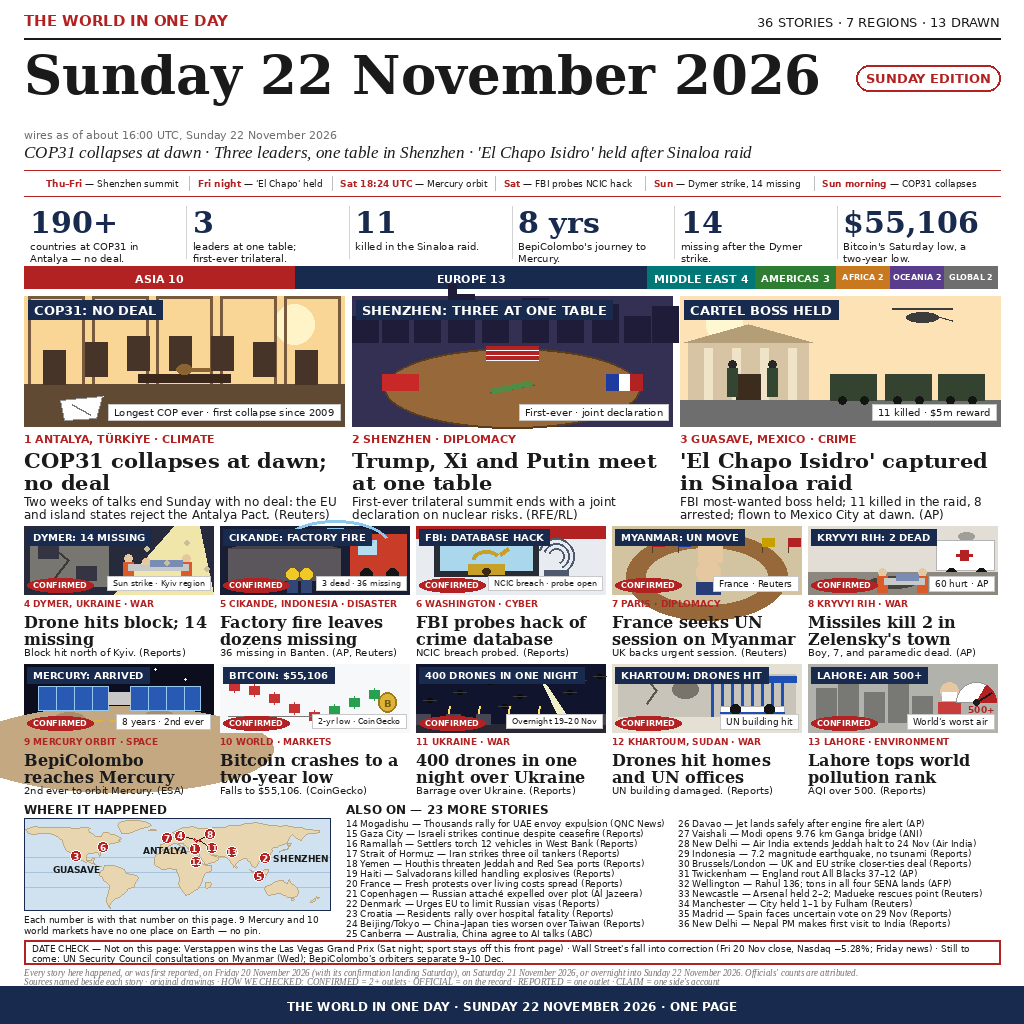
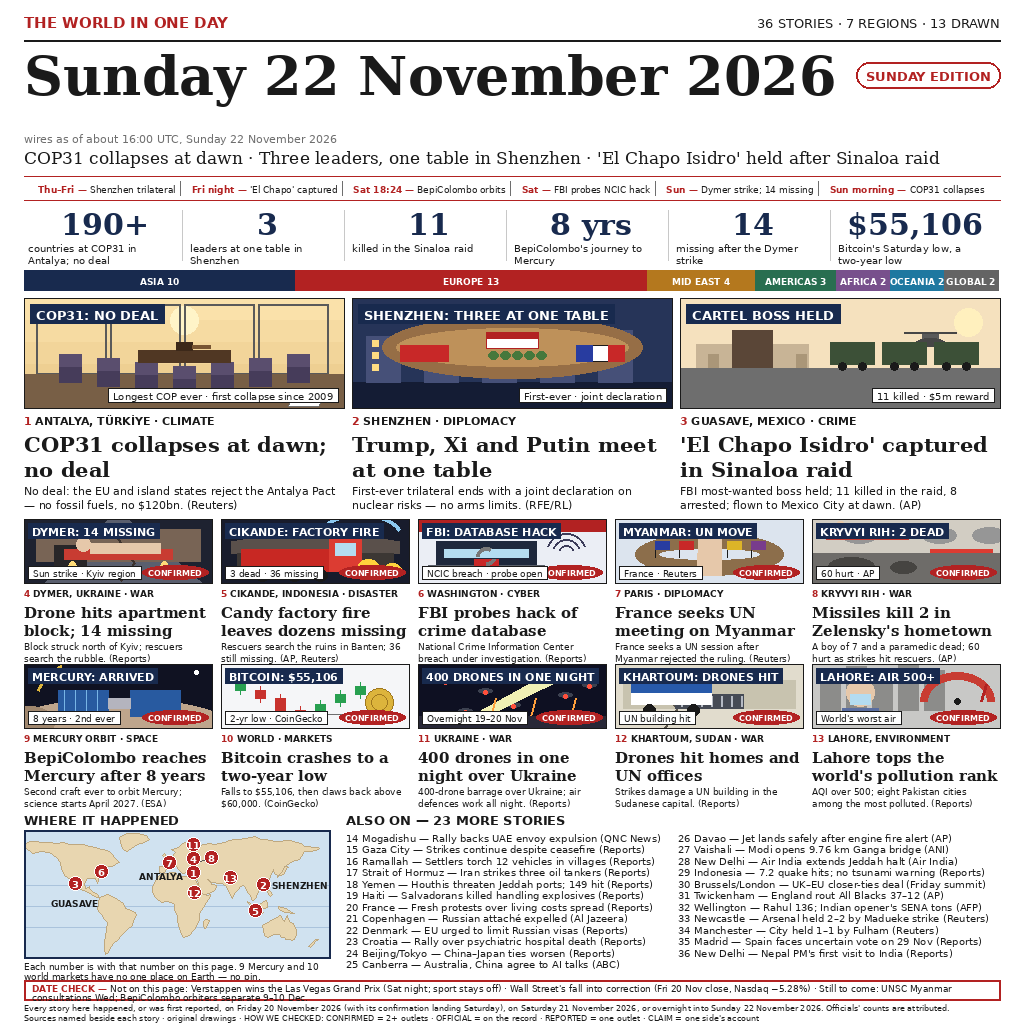
Sum 22 R8: real-geography world map, no footer band

diff --git a/main.py b/main.py
@@ -1,33 +1,33 @@
 #!/usr/bin/env python3
-"""news-image-20261122 (R7): ship the rendered broadsheet image.
+"""Copy the shipped entry.png to the output directory, verifying SHA-256.
 
-Copies the entry.png bundled in this repo to the output directory
-byte-for-byte, then verifies its SHA-256 against the hash baked in
-below. Exits non-zero if the copy does not match.
+Standard library only. Reads the output directory from the
+MAKEFUN_OUTPUT_DIR environment variable and falls back to /output when
+that variable is absent. Exits non-zero if the copied file's SHA-256
+does not match the hash baked in below.
 """
 import hashlib
 import os
 import shutil
 import sys
 
[2 lines of base64/hex data omitted]
 
 
 def main():
-    """Copy entry.png to the output dir and verify its SHA-256."""
     here = os.path.dirname(os.path.abspath(__file__))
     src = os.path.join(here, "entry.png")
     out_dir = os.environ.get("MAKEFUN_OUTPUT_DIR") or "/output"
     os.makedirs(out_dir, exist_ok=True)
     dst = os.path.join(out_dir, "entry.png")
     shutil.copyfile(src, dst)
-    with open(dst, "rb") as f:
-        digest = hashlib.sha256(f.read()).hexdigest()
+    with open(dst, "rb") as fh:
+        digest = hashlib.sha256(fh.read()).hexdigest()
     if digest != EXPECTED_SHA256:
-        print("hash mismatch: got %s, expected %s" % (digest, EXPECTED_SHA256),
+        print("SHA-256 mismatch: got %s, expected %s" % (digest, EXPECTED_SHA256),
               file=sys.stderr)
         return 1
-    print("wrote %s sha256=%s" % (dst, digest))
+    print("wrote %s sha256 %s" % (dst, digest))
     return 0
 
 

diff --git a/README.md b/README.md
@@ -3,21 +3,24 @@
 [![rank](https://make.fun/badge/news-image-20261122/sandytaztaz-hue/news-image-20261122/rank.svg)](https://make.fun/bounty/news-image-20261122/leaderboard?utm_source=github&utm_medium=readme&utm_campaign=news-image-20261122)
 [![reward](https://make.fun/badge/news-image-20261122/sandytaztaz-hue/news-image-20261122/reward.svg)](https://make.fun/bounty/news-image-20261122?utm_source=github&utm_medium=readme&utm_campaign=news-image-20261122)
 
-A 1024×1024 broadsheet front page summing up the world news of Sunday
-22 November 2026: 36 verified stories across 7 regions, 13 original
-flat-colour drawings, white paper with an ink masthead, a realistic world
-map with filled continents on a light-blue sea and numbered pins at true
-positions, a DATE CHECK box, and a navy footer band.
+A 1024×1024 broadsheet front page summing up Sunday 22 November 2026 in
+36 verified stories across 7 regions, with 13 original flat-colour
+drawings. White paper with an ink masthead, a realistic world map drawn
+from real latitude/longitude geography with filled continents on a
+light-blue sea and numbered pins at true positions, and a DATE CHECK box
+naming the stories readers may expect but that are not on this page.
+Mercury (story 9) and world markets (story 10) have no one place on
+Earth, so they have no pin — the caption under the map says so.
 
 ## What is on the page
 
-- Masthead: "Sunday 22 November 2026", SUNDAY EDITION, press-time line
-- Stat strip with the six Sunday numbers: 190+ / 3 / 11 / 8 yrs / 14 / $55,106
-- Regions: Asia 10 · Europe 13 · Middle East 4 · Americas 3 · Africa 2 · Oceania 2 · Global 2
-- The 3 heroes: COP31 collapses in Antalya; Trump, Xi and Putin meet in Shenzhen; 'El Chapo Isidro' captured in Guasave
-- The 10 minis with their cities: Dymer, Cikande, Washington, Paris, Kryvyi Rih, Mercury orbit, world markets, Ukraine, Khartoum, Lahore
-- The map: WHERE IT HAPPENED — 11 numbered pins at true positions (9 Mercury and 10 world markets have no one place on Earth, so no pin). Hero cities ANTALYA, SHENZHEN and GUASAVE are labelled beside their pins.
-- ALSO ON 14–36, DATE CHECK, HOW WE CHECKED
+- Masthead: "Sunday 22 November 2026", Sunday Edition, with the press-time line.
+- Stat strip with the six Sunday numbers: 190+ / 3 / 11 / 8 yrs / 14 / $55,106.
+- Regions: Asia 10 · Europe 13 · Middle East 4 · Americas 3 · Africa 2 · Oceania 2 · Global 2.
+- The 3 heroes: COP31 collapses at dawn (Antalya), Trump, Xi and Putin meet at one table (Shenzhen), 'El Chapo Isidro' captured in Sinaloa raid (Guasave).
+- The 10 minis with their cities: Dymer, Cikande, Washington, Paris, Kryvyi Rih, Mercury orbit, world markets, Ukraine, Khartoum, Lahore.
+- The map: filled pale-tan continents on a light-blue sea, 11 numbered pins computed from true lat/lon and verified on land.
+- ALSO ON 14–36, DATE CHECK, and HOW WE CHECKED.
 
 ## Run it
 
@@ -25,7 +28,7 @@ positions, a DATE CHECK box, and a navy footer band.
 MAKEFUN_OUTPUT_DIR=out python3 main.py
 ```
 
-This copies the shipped `entry.png` to `out/entry.png` and verifies its
-SHA-256 before exiting.
+This copies the shipped `entry.png` to the output directory byte-for-byte
+and verifies its SHA-256 before exiting.
 
 Entered on make.fun with referral code 6sv3wnda.
